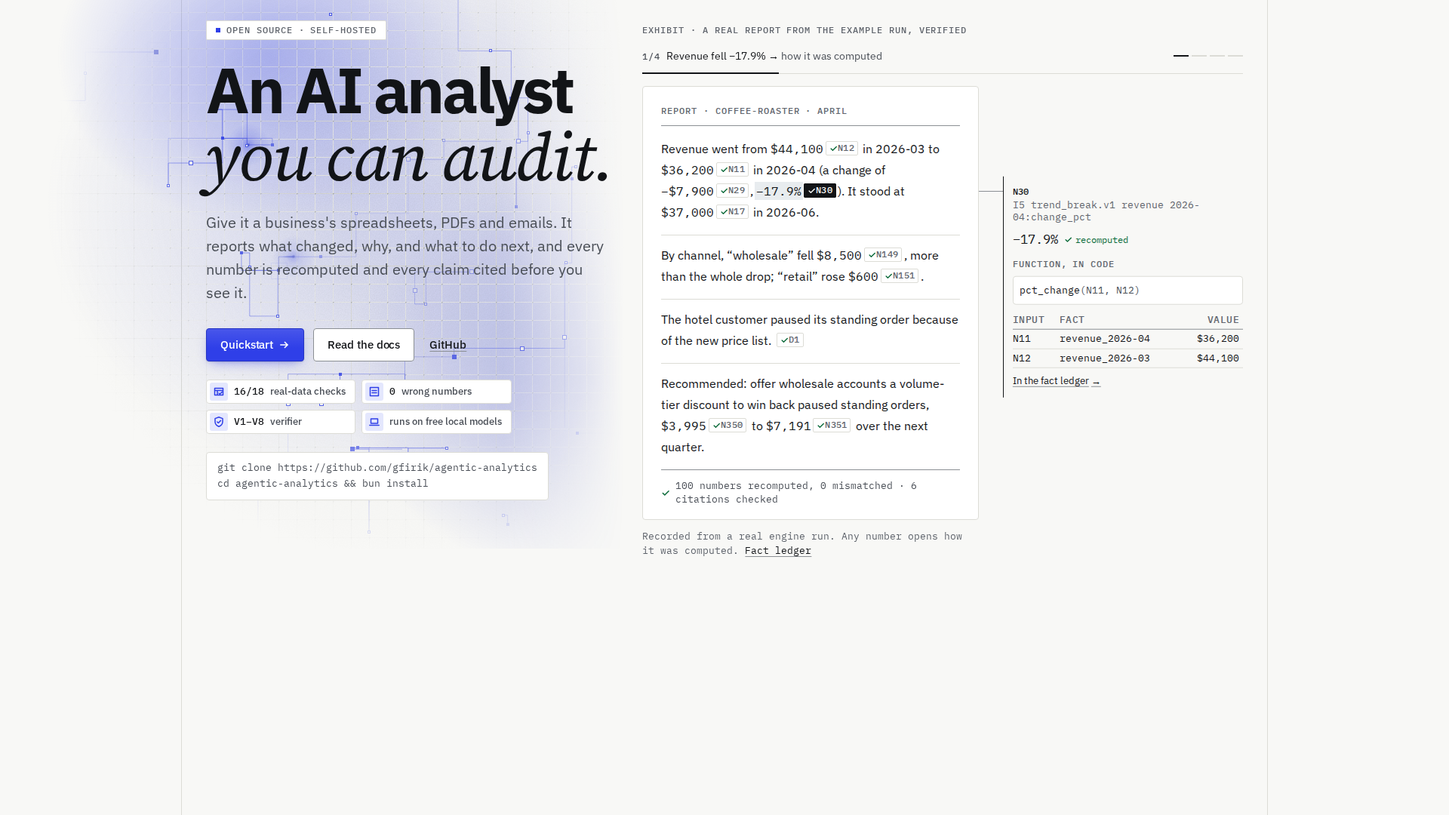
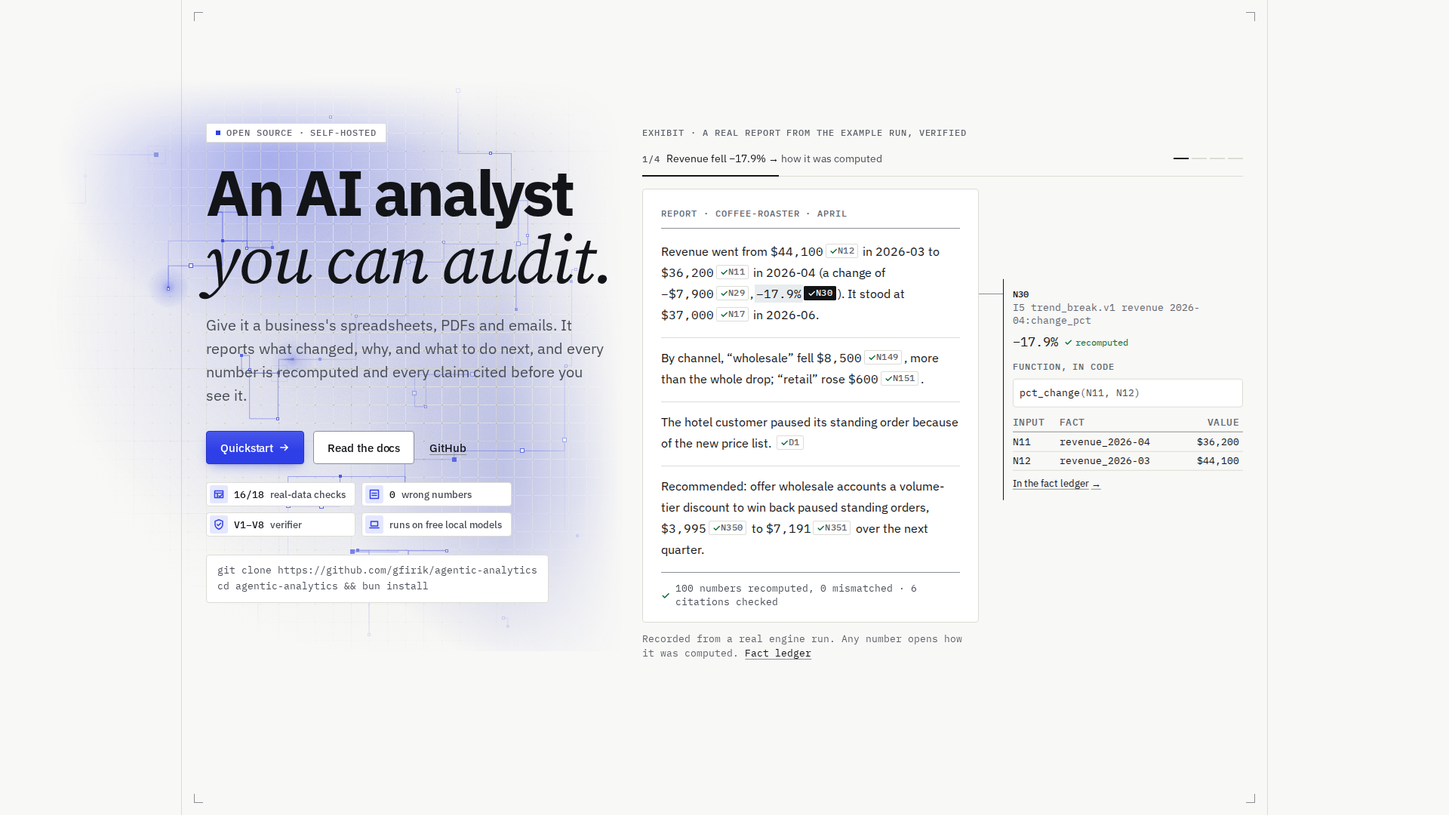
feat(site): pin the whole hero through the walkthrough, then release into the machine
At the maintainer's request the whole hero row (statement with its
field, exhibit and corner marks) is one sticky unit, at least a screen
tall with its content centred, over a scroll track placed after it in
the hero section. It covers the track for the four steps, so no empty
block shows under it, and the engine machine's band starts right at its
bottom edge on release. While pinned the statement's field fades in at
its top. The stacked hero (900-1100px) is taller than a screen, so the
pin starts at 1100px; below that the steps are the tap list.

diff --git a/scripts/site/browser/site.spec.ts b/scripts/site/browser/site.spec.ts
@@ -225,16 +225,25 @@ test("hero: at 1440 the exhibit pins and each scroll step opens the next figure'
   // The margin is never empty: step 1's note is open before the first step.
   await expect(open).toHaveCount(1);
   await expect(open).toHaveAttribute("id", `aa-note-${steps[0]}`);
-  // The exhibit and the statement are sticky; one sentinel per step in the track.
+  // The whole hero row (statement and exhibit) is one sticky unit, a screen tall; one sentinel per step in the track.
+  const row = page.locator(".aa-hero-row");
   const stage = page.locator(".aa-hero-exhibit");
-  expect(await stage.evaluate((el) => getComputedStyle(el).position)).toBe("sticky");
-  expect(await page.locator(".aa-statement").evaluate((el) => getComputedStyle(el).position)).toBe("sticky");
+  const statement = page.locator(".aa-statement");
+  expect(await row.evaluate((el) => getComputedStyle(el).position)).toBe("sticky");
+  expect(await row.evaluate((el) => Math.round(el.getBoundingClientRect().height))).toBeGreaterThanOrEqual(900);
   await expect(page.locator("[data-walk-sentinel]")).toHaveCount(steps.length);
-  const pinTop = await stage.evaluate((el) => Number.parseFloat(getComputedStyle(el).top));
-  // The pinned exhibit fits the screen.
-  expect(await stage.evaluate((el) => el.getBoundingClientRect().height + Number.parseFloat(getComputedStyle(el).top))).toBeLessThanOrEqual(
-    900,
+  // Pinned: the row's top at the screen's top; the exhibit and the statement where they were at step 1.
+  await jumpTo(
+    page,
+    (await page.locator('[data-walk-sentinel="1"]').evaluate((el) => el.getBoundingClientRect().top + window.scrollY)) - 900 * 0.65 + 40,
   );
+  await expect.poll(() => shownStep(page), { timeout: 3_000 }).toBe(1);
+  expect(Math.round(await row.evaluate((el) => el.getBoundingClientRect().top))).toBe(0);
+  const pinTop = Math.round(await stage.evaluate((el) => el.getBoundingClientRect().top));
+  const statementTop = Math.round(await statement.evaluate((el) => el.getBoundingClientRect().top));
+  // Everything in the hero is on screen while pinned: the install line and the exhibit's caption.
+  for (const sel of [".aa-hero-cmd-frame", ".aa-exhibit-caption", ".aa-hero-title"])
+    expect(await page.locator(sel).evaluate((el) => el.getBoundingClientRect().bottom), sel).toBeLessThanOrEqual(900);
   // Each step: scroll until the step's sentinel crosses the line 65% down the screen; the exhibit stays put.
   const sentinelY = (k: number) =>
     page.locator(`[data-walk-sentinel="${k}"]`).evaluate((el) => el.getBoundingClientRect().top + window.scrollY);
@@ -243,7 +252,8 @@ test("hero: at 1440 the exhibit pins and each scroll step opens the next figure'
   for (let k = 1; k <= steps.length; k++) {
     await jumpTo(page, (await sentinelY(k)) - 900 * 0.65 + 40);
     await expect.poll(() => shownStep(page), { timeout: 3_000 }).toBe(k);
-    expect(Math.round(await stage.evaluate((el) => el.getBoundingClientRect().top)), `step ${k} pinned`).toBe(pinTop);
+    expect(Math.round(await stage.evaluate((el) => el.getBoundingClientRect().top)), `step ${k} exhibit pinned`).toBe(pinTop);
+    expect(Math.round(await statement.evaluate((el) => el.getBoundingClientRect().top)), `step ${k} statement pinned`).toBe(statementTop);
     await expect(page.locator(`.aa-walk-cap[data-step="${k}"]`)).toContainText(`${k}/${steps.length}`);
     await expect(open).toHaveCount(1);
     await expect(open).toHaveAttribute("id", `aa-note-${steps[k - 1]}`);
@@ -256,7 +266,9 @@ test("hero: at 1440 the exhibit pins and each scroll step opens the next figure'
     const b = await open.boundingBox();
     expect((b?.y ?? 0) + (b?.height ?? 0), `step ${k} note on screen`).toBeLessThanOrEqual(900);
     const p = await progress();
-    expect(p, `step ${k} progress grows`).toBeGreaterThan(lastProgress);
+    // (Step 1 is where the pin check above already left the page.)
+    if (k > 1) expect(p, `step ${k} progress grows`).toBeGreaterThan(lastProgress);
+    else expect(p, "step 1 progress has started").toBeGreaterThan(0);
     lastProgress = p;
     if (k === 2) {
       // The change's SQL input: its SQL (open beside the exhibit) and the sheet rows it read.
@@ -276,18 +288,21 @@ test("hero: at 1440 the exhibit pins and each scroll step opens the next figure'
   await expect(page.locator("#aa-note-N12")).toHaveClass(/is-open/);
   await page.mouse.move(5, 5);
   await expect(open).toHaveAttribute("id", `aa-note-${steps[1]}`);
-  // Past the track the pin releases straight into the engine machine's band: the exhibit scrolls away and the band's
-  // top follows right behind it.
+  // Past the track the whole hero releases straight into the engine machine's band: the row scrolls away together and
+  // the band's top follows its bottom edge directly, with no empty block between them.
   const engine = page.locator("#engine");
   await jumpTo(page, (await sentinelY(steps.length)) + 900);
   expect(await stage.evaluate((el) => el.getBoundingClientRect().top)).toBeLessThan(pinTop);
+  expect(await statement.evaluate((el) => el.getBoundingClientRect().top)).toBeLessThan(statementTop);
   await expect.poll(() => shownStep(page), { timeout: 3_000 }).toBe(steps.length);
-  const [stageBottom, engineTop] = await Promise.all([
-    stage.evaluate((el) => el.getBoundingClientRect().bottom),
+  const [rowBottom, engineTop, captionBottom] = await Promise.all([
+    row.evaluate((el) => el.getBoundingClientRect().bottom),
     engine.evaluate((el) => el.getBoundingClientRect().top),
+    page.locator(".aa-exhibit-caption").evaluate((el) => el.getBoundingClientRect().bottom),
   ]);
   expect(engineTop).toBeLessThan(900);
-  expect(engineTop - stageBottom, "the band follows the released exhibit").toBeLessThan(200);
+  expect(Math.abs(engineTop - rowBottom), "the band starts where the hero ends").toBeLessThanOrEqual(2);
+  expect(engineTop - captionBottom, "no large empty block under the hero").toBeLessThan(160);
 });
 
 test("hero: keyboard scrolling (Page Down, Space) steps the pinned walkthrough, announced; no step control exists", async ({ page }) => {
@@ -410,7 +425,7 @@ test("hero: under 900 px nothing is pinned; the steps stack as a list and each o
   await expect(wrap).toHaveAttribute("data-walk", "tap");
   const steps = JSON.parse((await wrap.getAttribute("data-steps")) ?? "[]") as string[];
   // No pin, no track, no step bar.
-  expect(await page.locator(".aa-hero-exhibit").evaluate((el) => getComputedStyle(el).position)).not.toBe("sticky");
+  expect(await page.locator(".aa-hero-row").evaluate((el) => getComputedStyle(el).position)).not.toBe("sticky");
   await expect(page.locator(".aa-hero-track")).toBeHidden();
   await expect(page.locator(".aa-walk-bar")).toBeHidden();
   // The figures still verify as the exhibit comes into view.
@@ -486,8 +501,7 @@ test("hero: with reduced motion the walkthrough is a static ruled list, every st
   await expect(page.locator("[data-exhibit]")).not.toHaveAttribute("data-walk", /.*/);
   await expect(page.locator(".aa-walk-bar")).toBeHidden();
   await expect(page.locator(".aa-hero-track")).toBeHidden();
-  expect(await page.locator(".aa-hero-exhibit").evaluate((el) => getComputedStyle(el).position)).not.toBe("sticky");
-  expect(await page.locator(".aa-statement").evaluate((el) => getComputedStyle(el).position)).not.toBe("sticky");
+  expect(await page.locator(".aa-hero-row").evaluate((el) => getComputedStyle(el).position)).not.toBe("sticky");
   for (const d of await page.locator(".aa-walk-list details").all()) await expect(d).toHaveAttribute("open", "");
   const items = page.locator(".aa-walk-list > li");
   await expect(items).toHaveCount(steps.length);
@@ -558,7 +572,7 @@ test("without JS the landing page is complete and chips link into the fact ledge
   for (const d of await items.all()) await expect(d).toHaveAttribute("open", "");
   await expect(items.last().locator(".aa-walk-item-note")).toBeVisible();
   await expect(page.locator(".aa-hero-track")).toBeHidden();
-  expect(await page.locator(".aa-hero-exhibit").evaluate((el) => getComputedStyle(el).position)).not.toBe("sticky");
+  expect(await page.locator(".aa-hero-row").evaluate((el) => getComputedStyle(el).position)).not.toBe("sticky");
   await expect(page.locator(".aa-walk-bar")).toBeHidden();
   await expect(page.locator(".aa-notes")).toBeHidden();
   await expect(page.locator("#ledger")).toBeHidden();
@@ -2015,12 +2029,12 @@ test.describe("motion", () => {
               value: e.value,
               time: e.startTime,
               mine: els.some((el) => Boolean(el?.closest("[data-reveal], .aa-stages, .aa-exhibit"))),
-              // The pinned hero (site v5 PR 2): the exhibit and the statement are sticky over the hero's scroll track
+              // The pinned hero (site v5 PR 2): the whole hero row is sticky over the hero's scroll track
               // and move with the scroll by design as the pin releases; position, not animation, told apart the same way.
               pinned:
                 els.length > 0 &&
                 els.every((el) => {
-                  const host = el?.closest(".aa-hero-exhibit, .aa-statement");
+                  const host = el?.closest(".aa-hero-row");
                   return Boolean(host) && getComputedStyle(host as Element).position === "sticky";
                 }),
               // A sticky row head (§1, §2 from 1100px) moves with the scroll by design once it reaches the end of

diff --git a/apps/docs/DESIGN.md b/apps/docs/DESIGN.md
@@ -158,7 +158,7 @@ The scale (rem, root 16px; mobile values apply under 640px):
      - **left, the statement:** a mono eyebrow label, the serif headline, one or two lines on what it is and what it solves, the actions, and the install line (the clone and then `cd … && bun install`; site v5 PR 2: where the clone URL is wider than the box, on phones, it wraps only after `github.com/` and its second line starts under its first, like Quickstart's; it never scrolls or clips);
      - **right, the exhibit** (§6): its label and the report page with its walkthrough, so the verification replay plays on the first screen (the report page's top at about 260px at 1440×900). At 1440 the right column is about 795px, wide enough for the notes to sit beside the report page; between 1100 and about 1410px they sit below it;
      - **below 1100px** the statement is centred and the exhibit follows it.
-     - **The scroll track (site v5 PR 2).** While the walkthrough is pinned (§6) the hero row holds a track under its content, one sentinel per step (`--aa-walk-step`, 45vh each) and a 20vh tail; the exhibit is sticky (`--aa-pin-top`, `--aa-space-6`), and from 1100px the statement is too, so the whole hero holds still while the track passes and both release together, straight into the engine machine's band. Each is alone in its grid column, so neither slides over a neighbour.
+     - **The whole hero pins (site v5 PR 2).** While the walkthrough is pinned (§6) the hero section holds a scroll track below its row, one sentinel per step (`--aa-walk-step`, 45vh each) and a 20vh tail. The row itself (the statement with its field, the exhibit, and the frame's corner marks) is one sticky unit at the screen's top, at least a screen tall with its content centred, so the whole hero holds still for the four steps and covers the empty track the whole time. As the track ends, the whole hero releases together, and the engine machine's band starts right at its bottom edge, with no empty block between them. While pinned, the statement's field fades in over its first 6rem (its top no longer meets the header's hairline). The hero's colours are unchanged.
   2. **The engine machine** (§6, `EngineMachine.astro`), a full-width band directly under the hero: its head (an unnumbered bracketed label, `THE ENGINE, OPENED UP`, the `h2` and a lead with the run's station count), then the live machine on a stage at least 600px tall on desktop (37.5–45rem), with the station list under it.
   3. `§1 HOW IT WORKS`: a wide row, the head on the left and the pipeline stages (§6) on the right. Site v5 PR 2 trimmed its head, which repeated the machine's "files in, a checked report out": the machine above says what each station does; §1 shows what this run's stages produced (the files read, the SQL run, the figures and the checks).
   4. `§2 WHY IT'S DIFFERENT`: a wide row, the head on the left and exactly three proofs on the right: "The model never does arithmetic", "Definitions you confirm", "Every claim is cited". Each has a mono label, a title, one sentence and one real example in a framed box: the report's first sentence as the model wrote it (`{{N…}}` placeholders) and as the reader sees it (figures and chips); the metric's definition with the 2-line SQL it compiles to; a quoted citation.
@@ -219,12 +219,12 @@ The scale (rem, root 16px; mobile values apply under 640px):
     An inline script holds the figures unverified (and unseen, in their place) before first paint. With reduced motion or no JS, the server-rendered verified state is all there is.
   - **The guided walkthrough (scroll-driven, site v5 PR 2).** The exhibit demonstrates itself as the reader scrolls. After the verification it steps through the story's key figures, opening each one's margin note under a step indicator (`1/4 Revenue fell −17.9% → how it was computed`), with step marks and a progress rule, and no buttons.
     - The steps are chosen from the run's data by role (`walkthrough()` in `scripts/landing-data.ts`), never by typed id: the headline change and how it was computed; its current-period SQL input with the SQL and the sheet rows it read; the driver's share of the change; the quoted document.
-    - **Pinned to the scroll from 900px (site v5 PR 2; this overrides the maintainer's D2 of site v3, "no scroll-pinning at any size", at the maintainer's request).** The exhibit sticks (the hero's scroll track, §5) and each scroll step activates the next figure and opens its note, 1/4 to 4/4; after step 4 the pin releases straight into the engine machine's band and its own scroll-linked tour. There is no timer, and so no Pause or Replay.
+    - **Pinned to the scroll from 1100px (site v5 PR 2; this overrides the maintainer's D2 of site v3, "no scroll-pinning at any size", at the maintainer's request).** The whole hero sticks (§5) and each scroll step activates the next figure and opens its note, 1/4 to 4/4; after step 4 the hero releases straight into the engine machine's band. There is no timer.
     - **How the scroll picks the step:** an IntersectionObserver on the track's sentinels, its root a 1%-tall line 65% down the screen; the step is the last sentinel to cross it (the entry's own box says which way). No scroll listener and no layout read per frame.
     - **The progress rule:** 2px of ink over the step bar's hairline, a scroll-driven animation (`animation-timeline` on the track's view timeline, `--aa-walk-track`, scoped on the hero row; transform only) from the pin's start to step 4. Where scroll-driven animations aren't supported it steps with the walkthrough instead (a custom property the script sets). Four step marks fill as the steps pass.
     - **No step controls (the maintainer's call, site v5 PR 2).** No previous, next, Pause or Replay: the active step changes only with the scroll, softly (the caption, the note and the figure's wash cross-fade over 200ms; opacity and colour only). It stays accessible without buttons: the page's own keyboard scrolling (Page Down, Space, the arrow keys) drives the steps; every figure stays a link in the tab order and opens its note on focus; the step caption is announced (`aria-live="polite"`) on every step, and the step's chip carries `aria-current="step"`.
-    - **Only when it fits.** The pinned exhibit (its label, step bar, report page and notes) must fit the screen under its sticky top; the inline script measures it once before first paint (and again when the window changes), and otherwise the walkthrough is the tap list below. At 1440×900 and 1920×1080 it pins; at about 1280×800, where the notes sit below the report page, it doesn't fit and is the tap list.
-    - **Under 900px (and where it doesn't fit) nothing is pinned:** the steps stack as a ruled list under the exhibit, each a disclosure that opens on tap (step 1 open); the step bar isn't shown. Tapping a figure still opens its margin note below the report page.
+    - **Only when it fits.** The hero row's content (the statement beside the exhibit with its step bar, report page and notes) must fit the screen; the inline script measures it once before first paint (and again when the window changes), and otherwise the walkthrough is the tap list below. Pinned, every note shares one grid cell as tall as the tallest, and beside the report page a note is raised just enough to end inside that cell (the leader still meets it). At 1440×900 and 1920×1080 it pins; at about 1280×800 and 1366×768 (the notes below the report page) it doesn't fit and is the tap list. Between 900 and 1100px the hero is stacked, taller than a screen, so it never pins.
+    - **Under 1100px (and where it doesn't fit) nothing is pinned:** the steps stack as a ruled list under the exhibit, each a disclosure that opens on tap (step 1 open); the step bar isn't shown. Tapping a figure still opens its margin note below the report page.
     - **Beside or below is a container query (site v4)** on the exhibit's own width (`.aa-walk`), not the screen's, because the exhibit sits in the hero's right column from 1100px: beside at 1440 and wider, below between 1100 and about 1410px, beside again from about 840px to 1100px where the hero stacks, and below on phones. The script reads the same width.
     - **Step 1's note is open from the start**, so the margin is never an empty box; its figure isn't marked until step 1.
     - **Notes size to their own content.** Pinned, every note shares one grid cell as tall as the tallest, so the pinned exhibit's height is known before first paint; beside the report page a note sits level with its figure, raised only as far as it must be to end inside that cell (the leader still meets it). Unpinned beside the exhibit, the notes column keeps the room of its tallest note (measured in the browser, again when the fonts arrive or the window changes; it only grows). Each note sits at the top of its room, never stretched, and the step captions share one grid cell too. So stepping never moves the page.
@@ -317,7 +317,7 @@ Site v4 PR 3 brought tasteful motion to the whole landing page under the rules o
   - A part the reader scrolls past without stopping (the End key, a fling) is shown at once, as is one that takes keyboard focus; an in-page link, a hash change or printing shows every held part at once, so a jump never lands on a fade.
   - The server renders every part final: without JS, without IntersectionObserver and under reduced motion nothing is held.
 - **The pipeline's connector** (§6) draws in, stop by stop, the first time its rail scrolls into view on the landing page. Play still steps through the stops once while on screen and stops at Report; each step moves the connector by one segment (180ms) and crossfades the panel content (150ms), with no moving parts. The stages never play by themselves. Without JS every panel is in the HTML as a stacked list.
-- **The exhibit:** its replay (§6), where the figures count up to their recorded values and then verify, the one motion on the first screen; then its walkthrough, pinned and stepped by the reader's own scroll from 900px (site v5 PR 2), with a scroll-driven progress rule. Nothing in it moves by itself.
+- **The exhibit:** its replay (§6), where the figures count up to their recorded values and then verify, the one motion on the first screen; then its walkthrough, the whole hero pinned and stepped by the reader's own scroll from 1100px (site v5 PR 2), with a scroll-driven progress rule. Nothing in it moves by itself.
 - **Hover and focus:** 150ms (`--aa-fast`) on links (underline and colour), chips, buttons, the rail's stops, and rows (§3's metric rows and §4's doors take the `mark` wash; a "more" link's arrow steps 3px forward). The margin note slides in over 150ms.
 - **Docs:** none beyond hover and focus, the TOC stepping aside, and the user-triggered StageFlow and pipeline stepping (the connector is drawn from the start there).
 - **The engine machine** (§6): a slow camera drift (±3.4° about the vertical over 26 seconds, desktop only) while its band is on screen, and the camera moving from station to station as the reader scrolls through the band (eased, never ahead of the scroll). Nothing in it blocks the page's own scrolling, and nothing moves text the reader is on. Under reduced motion it is the still frame with the station list: no drift, no scroll-linked camera and no canvas.
@@ -387,7 +387,7 @@ The scroll-pinned story is PR 2.
 
 The maintainer: the hero exhibit should tell its story as the reader scrolls, not on a timer. This overrides site v3's D2 ("no scroll-pinning at any size; the walkthrough is timed everywhere"):
 
-- **the exhibit pins** from 900px while a scroll track in the hero row passes, each step activated by the scroll and shown by a scroll-driven progress rule; after step 4 it releases straight into the engine machine's band (§5, §6). The timer and every step control (previous, next, Pause, Replay) are gone: only the scroll moves it, keyboard scrolling included, with soft cross-fades and a polite live region;
+- **the whole hero pins** (the statement and the exhibit together) from 1100px while a scroll track below it passes, each step activated by the scroll and shown by a scroll-driven progress rule; after step 4 it releases straight into the engine machine's band (§5, §6). The timer and every step control (previous, next, Pause, Replay) are gone: only the scroll moves it, keyboard scrolling included, with soft cross-fades and a polite live region;
 - **phones** get the steps as a list that opens on tap; **reduced motion and no JS** the static list, every note open;
 - **§1's head** is trimmed so it no longer repeats the machine (§5);
 - **the install line** wraps after `github.com/` on phones instead of scrolling (§5).

diff --git a/docs/progress/STATE.md b/docs/progress/STATE.md
@@ -58,7 +58,7 @@ Since 2026-10-21 (maintainer's standing instruction): work through the whole pla
 | Site v4 PR 3: motion across the landing page | AWAITING_REVIEW (draft PR) | notify | [#72](https://github.com/gfirik/agentic-analytics/pull/72) (draft) | `bun run --filter @agentic-analytics/docs build && PW_CHANNEL=chrome bun run site:check:browser` (the "motion" tests); screenshots in `docs/plans/site-v4/pr3-*.png` | The plan `docs/plans/site-v4.md` §PR 3: §1–§4's head and visual fade and rise into place once as they first scroll in (240ms, opacity and transform only; only what is below the screen at load; never the hero or the engine band); the pipeline rail is a connector (2px segment + node per stop) that draws in stop by stop the first time it scrolls into view on the landing page, and Play/stops still step it; the exhibit's figures count up to their recorded values (CSS overlay over the unchanged real text) and then verify, ≤ 2.5s; 150ms hovers on links, chips, buttons, §3 rows, §4 doors, "more" arrows; wide-row heads sticky from 1100px. All off under reduced motion; final state without JS. Fixed on the way: the engine card's text shifting at its scroll stops on phones (CLS through the page at 390: 0.047 → 0.006), and a pinned note lost to hover during its own scroll-into-view. DESIGN.md §2.5, §5, §6, §7, §10 rewritten. Lighthouse `/`: mobile 96/100/100/100 CLS 0, desktop 100/100/100/100 CLS 0.00003, same-origin only; browser suite 60/60; gate PASS |
 | Site v5 PR 1: hero backgrounds and type polish | DONE (merged 2026-10-22, 3a97d72) | notify | [#85](https://github.com/gfirik/agentic-analytics/pull/85) | `bun run --filter @agentic-analytics/docs build && bash scripts/heavy.sh bun run site:check:browser` (the "hero field" tests); `tsx apps/docs/scripts/site-screenshots.ts --hero --out <dir>`; screenshots in `docs/plans/site-v5/pr1-*.png` | The plan `docs/plans/site-v5.md` §PR 1: the hero statement stands on its own field (`HeroField.astro`): a white core inside a faint cool haze (`--aa-glow`), graph paper (24px minor, 96px major, a dot on every crossing) fading radially from the statement, inline SVG grain, and a canvas net of drifting square nodes with elbowed hairline connectors (idle start, IntersectionObserver + visibility pause, ≤ 30 fps, DPR ≤ 2 and ≤ 1.6 Mpx, a Pause control; none under reduced motion, Save-Data or without JS). Framed corner marks on the hero frame. Display 40–68px fluid, set closer; larger hero lead; eyebrow as a tag; buttons reworked (raised secondary, arrow on the primary). The exhibit is unchanged. Lighthouse `/` (2 mobile runs, 1 desktop): mobile 96/100/100/100 CLS 0, desktop 100/100/100/100 CLS 0; browser suite 64/64 (CLS through the page 0.0046 at 1440, 0.0059 at 390); same-origin only |
 | Site v5 PR 1b: a bolder hero | DONE (merged 2026-10-22, 09636ae) | notify | [#86](https://github.com/gfirik/agentic-analytics/pull/86) | `bun run --filter @agentic-analytics/docs build && bash scripts/heavy.sh bun run site:check:browser` (the "hero" tests); `tsx apps/docs/scripts/site-screenshots.ts --hero --out <dir>`; before/after in `docs/plans/site-v5/pr1b-{before,after}-hero-{1920,1440,390}.png` | The maintainer: "still too flat and restrained, be bold". The hero only: one brand accent, cobalt (`--aa-accent` #2f3fe8, `-deep`, `-wash`; replaces `--aa-glow`), as a visible glow (≤ 22% of the accent behind text: lead ≥ 5.1:1, headline ≥ 9:1, measured), the net's nodes and connectors, the proof chips' icons and the primary button (a soft gradient of the accent). Two-voice headline, `--aa-text-hero` (81px at 1440, 84px wider, 44px on phones, capped at 16cqi so each voice stays one line): Plex Sans 700 (new latin file, 23 KB) and the serif italic, both preloaded on `/` with metric-matched fallback faces. Proof chips under the actions, generated by `proofChips()` (16/18 real-data checks, 0 wrong numbers, V1–V8 verifier, runs on free local models), each linked with its source file. The net: 16–64 nodes, connectors that draw in, accent pulses that run toward the exhibit and hop node to node; still ≤ 30 fps and paused off-screen, hidden tab, Pause; absent under reduced motion/no JS. The eyebrow is one line at 390/360; Pause has its own slot (≥ 32px above the exhibit's label). Lighthouse `/`: mobile 95/100/100/100 CLS 0 (LCP 2.6s, TBT 20ms), desktop 100/100/100/100 CLS 0; same-origin only |
-| Site v5 PR 2: scroll-driven story into the 3D machine | IN_REVIEW (PR open) | notify | [#87](https://github.com/gfirik/agentic-analytics/pull/87) | `bun run --filter @agentic-analytics/docs build && bash scripts/heavy.sh bun run site:check:browser` (the "hero" tests); `tsx apps/docs/scripts/site-screenshots.ts --story --out <dir>`; screenshots in `docs/plans/site-v5/pr2-*.png` | The exhibit pins from 900px (when it fits the screen) while a scroll track in the hero row passes; each scroll step activates the next figure and opens its note (1/4 → 4/4), with step marks and a scroll-driven progress rule; after step 4 the pin releases straight into the engine machine. No step controls at all (no timer, Pause, Replay, prev or next): only the scroll moves it, keyboard scrolling included, with soft cross-fades. The hero field's Pause control is removed (WCAG 2.2.2 trade-off accepted by the maintainer). Under 900px the steps are a list that opens on tap; reduced motion and no JS, the static list with every note open. §1's head trimmed (no longer repeats the machine). The install line wraps after `github.com/` at 390 instead of clipping. Lighthouse `/` (2 runs each): mobile 95 and 97/100/100/100 CLS 0, desktop 100/100/100/100 CLS 0; CLS through the page with CI-like fonts 0.0046 at 1440, 0.0072 at 390; axe clean (reduced motion, and live: pinned at 1440, tap list at 390); same-origin only |
+| Site v5 PR 2: scroll-driven story into the 3D machine | IN_REVIEW (PR open) | notify | [#87](https://github.com/gfirik/agentic-analytics/pull/87) | `bun run --filter @agentic-analytics/docs build && bash scripts/heavy.sh bun run site:check:browser` (the "hero" tests); `tsx apps/docs/scripts/site-screenshots.ts --story --out <dir>`; screenshots in `docs/plans/site-v5/pr2-*.png` | The whole hero (statement and exhibit) pins from 1100px, when it fits the screen, while a scroll track below it passes; each scroll step activates the next figure and opens its note (1/4 → 4/4), with step marks and a scroll-driven progress rule; after step 4 the pin releases straight into the engine machine. No step controls at all (no timer, Pause, Replay, prev or next): only the scroll moves it, keyboard scrolling included, with soft cross-fades. The hero field's Pause control is removed (WCAG 2.2.2 trade-off accepted by the maintainer). Under 1100px the steps are a list that opens on tap; reduced motion and no JS, the static list with every note open. §1's head trimmed (no longer repeats the machine). The install line wraps after `github.com/` at 390 instead of clipping. Lighthouse `/` (2 runs each): mobile 95 and 97/100/100/100 CLS 0, desktop 100/100/100/100 CLS 0; CLS through the page with CI-like fonts 0.0046 at 1440, 0.0072 at 390; axe clean (reduced motion, and live: pinned at 1440, tap list at 390); same-origin only |
 
 Order: M0 → M1 → M2 → M3 → M4 → M5 → M6 → M7 → M8 → M9 → M10 → M11 → M12. In autopilot it runs sequentially. Parallel worktrees are an interactive option only.
 
@@ -428,6 +428,7 @@ These are checks that need something this machine doesn't have yet, such as a re
 - [site v5 PR 2] The maintainer, mid-PR: no controls in the hero's right column (no prev, next, Pause, Replay or timer), so the step changes only with the scroll; the earlier prev/next and arrow-key stepping were removed. It stays accessible without buttons: the page's own keyboard scrolling (Page Down, Space, arrows) drives the steps, every figure stays a link in the tab order and opens its note on focus, the caption is a polite live region and the step's chip carries `aria-current="step"`; step changes cross-fade over 200ms (opacity and colour only) — apps/docs/src/components/site/Exhibit.astro
 - [site v5 PR 2] The maintainer removed the hero field's "Pause background" control (and the statement's reserved slot for it): the net always plays while the hero is on screen, still stops off-screen and in a hidden tab for cost, and is absent under reduced motion, Save-Data and without JS. The maintainer explicitly accepts the WCAG 2.2.2 (Pause, Stop, Hide) trade-off for this decorative motion; DESIGN.md §7 records it — apps/docs/src/components/site/HeroField.astro
 - [site v5 PR 2] The engine machine's tour and explore modes are a separate follow-up PR; this PR only makes the pin release cleanly into its band and doesn't change the machine.
+- [site v5 PR 2] The maintainer, from the live page: the whole hero, not just the exhibit, stays fixed through the four steps. The hero row (the statement with its field, the exhibit and the corner marks) is now one sticky unit, at least a screen tall with its content centred, over a track placed after it in the section; it covers the track the whole time, so no empty block shows under the pinned hero, and the engine machine's band starts right at its bottom edge on release. While pinned, the statement's field fades in over its first 6rem, because centring moves its top edge off the header's hairline. Colours are unchanged. Because the stacked hero (900–1100px) is taller than a screen, the pin now starts at 1100px; below that it is the tap list — apps/docs/src/pages/index.astro, apps/docs/src/components/site/HeroField.astro, Exhibit.astro
 
 ## Known gaps carried forward
 

diff --git a/docs/DOCS-SITE.md b/docs/DOCS-SITE.md
@@ -33,7 +33,7 @@ They share one design system, `apps/docs/DESIGN.md`. Its tokens live in `src/sty
 - **The hero exhibit** (`components/site/Exhibit.astro`, landing page):
   - It shows the first finding of the real coffee-roaster run, each number followed by its fact-ID chip.
   - It replays its verification as it comes into view, unless reduced motion is on.
-  - It walks through its key figures by itself (M13k): the change, its SQL input and sheet rows, the driver, the quoted cause (`walkthrough()` in `scripts/landing-data.ts`, chosen by role from the run's data). From 900 px the exhibit pins and the reader's scroll steps it, with a scroll-driven progress rule, then releases into the engine machine (site v5 PR 2; there is no timer); only the scroll moves it (keyboard scrolling included), with no step controls; step 1's note is open from the start. Under 900 px the steps are a list that opens on tap; reduced motion or no JS shows them as a static ruled list, every note open.
+  - It walks through its key figures by itself (M13k): the change, its SQL input and sheet rows, the driver, the quoted cause (`walkthrough()` in `scripts/landing-data.ts`, chosen by role from the run's data). From 1100 px the whole hero pins and the reader's scroll steps it, with a scroll-driven progress rule, then releases into the engine machine (site v5 PR 2; there is no timer); only the scroll moves it (keyboard scrolling included), with no step controls; step 1's note is open from the start. Under 1100 px the steps are a list that opens on tap; reduced motion or no JS shows them as a static ruled list, every note open.
   - Hovering or focusing a figure opens its margin note: the SQL and parameters (or the function and its inputs), and the cited sheet rows.
   - A chip links to the fact's row in a static fact ledger, so it works without JS.
 - **`<Sidenote>` / `<MarginNote>`** (Learn, MDX): Tufte-style notes in the margin column, tap-to-expand under 1000px.
@@ -106,7 +106,7 @@ The README is the first thing people see on GitHub. It carries five visuals, and
   - no horizontal scroll at 360 px on every page, and at 1024 px on a Learn page (the margin column's narrowest);
   - light only, even under a dark OS with a stored dark theme;
   - the hero replays its verification once within 2.5 s, and not under reduced motion, also on a 667×375 landscape phone;
-  - the walkthrough (site v5 PR 2): at 1440 the exhibit and the statement pin, each scroll step opens the next figure's note (aria-current on its chip) as the progress rule grows, scrolling back steps back, a hover mid-walkthrough returns to the step's note, and past the track the pin releases into the engine machine; keyboard scrolling (Page Down, Space) steps it and there is no step control; stepping never moves the page below it; under 900 px nothing is pinned and the steps are a list that opens on tap; under reduced motion and without JS it is a static list, every note open, nothing sticky; axe on the live modes;
+  - the walkthrough (site v5 PR 2): at 1440 the whole hero row pins, each scroll step opens the next figure's note (aria-current on its chip) as the progress rule grows, scrolling back steps back, a hover mid-walkthrough returns to the step's note, and past the track the pin releases into the engine machine; keyboard scrolling (Page Down, Space) steps it and there is no step control; stepping never moves the page below it; under 1100 px nothing is pinned and the steps are a list that opens on tap; under reduced motion and without JS it is a static list, every note open, nothing sticky; axe on the live modes;
   - the status strip, header and install line keep their height while the web fonts arrive late (390 and 1440 px);
   - a margin note opens on hover and focus, beside its figure, and Escape closes it; under 900 px it opens below the exhibit;
   - without JS the page is complete and chips land on the fact ledger;

diff --git a/apps/docs/README.md b/apps/docs/README.md
@@ -35,7 +35,7 @@ Mermaid diagrams come from the same `docs/assets/diagrams/*.mmd` files the READM
 - `RagStepper`: BM25 → vectors → RRF → rerank → extract.
 - `VerifierDiff`: the draft against the verified report.
 - `Mermaid`: the shared diagrams, in the site's colours and type.
-- `Exhibit.astro` (landing page): the report page, its verification as it comes into view, and its guided walkthrough (M13k): the steps from `walkthrough()` in `scripts/landing-data.ts`, each opening a margin note under a step bar (step marks and a scroll-driven progress rule, no buttons). From 900 px, when it fits the screen, the exhibit pins over a scroll track in the hero row and the reader's scroll steps it, then releases into the engine machine (site v5 PR 2; no timer); step 1's note is open from the start. Under 900 px the steps are a list that opens on tap and the SQL is folded behind "show"; reduced motion or no JS shows them as a static ruled list, every note open. Hover and focus open any figure's note. Without JS the chips link into the static fact ledger.
+- `Exhibit.astro` (landing page): the report page, its verification as it comes into view, and its guided walkthrough (M13k): the steps from `walkthrough()` in `scripts/landing-data.ts`, each opening a margin note under a step bar (step marks and a scroll-driven progress rule, no buttons). From 1100 px, when it fits the screen, the whole hero pins over a scroll track below it and the reader's scroll steps it, then releases into the engine machine (site v5 PR 2; no timer); step 1's note is open from the start. Under 1100 px the steps are a list that opens on tap and the SQL is folded behind "show"; reduced motion or no JS shows them as a static ruled list, every note open. Hover and focus open any figure's note. Without JS the chips link into the static fact ledger.
 - `ExhibitNote.astro`: a margin note's body (the fact's value, its SQL or function, the cited sheet rows, or a document's quote), shared by the margin column and the static list.
 - `Sidenote.astro` / `MarginNote.astro` (Learn): notes in the margin column, inline under 1000px.
 - `learn/StageFlow` (Learn): one stage as in → stage → out with the run's real numbers, stepped through; `learn/Transcript`, `learn/Fact`, `learn/FactLedger`, `learn/Claim` and `learn/LearnMap` are static Astro components.

diff --git a/docs/plans/site-v5.md b/docs/plans/site-v5.md
@@ -60,10 +60,10 @@ The maintainer, after PR 1: "it's still too flat and restrained. Be bold this ti
 
 The maintainer's spec (it overrides site v3's D2, "no scroll-pinning"): the hero exhibit tells its story as the reader scrolls instead of on a timer.
 
-1. Pin: from 900px, when it fits the screen, the exhibit is sticky over a scroll track in the hero row (one sentinel per step); from 1100px the statement sticks beside it. Each step's sentinel crossing a line 65% down the screen activates the next figure and opens its note; after step 4 the pin releases into the engine machine's band.
+1. Pin: from 1100px, when it fits the screen, the whole hero row (statement and exhibit) is one sticky unit, a screen tall, over a scroll track below it in the section (one sentinel per step). Each step's sentinel crossing a line 65% down the screen activates the next figure and opens its note; after step 4 the whole hero releases straight into the engine machine's band with no gap (maintainer's change: the whole hero, not just the exhibit).
 2. Progress: step marks and a 2px rule driven by the track's view timeline (scroll-driven animation), stepped by the script where unsupported.
 3. Controls: none (the maintainer withdrew prev/next): the timer, Pause, Replay, prev and next all go, and only the scroll moves the steps, keyboard scrolling included; soft cross-fades. The hero field's Pause control goes too (WCAG 2.2.2 trade-off accepted by the maintainer). `aria-live` on the caption, `aria-current="step"` on the step's chip.
-4. Phones: no pin; the steps stack as a list, each a disclosure that opens on tap. Reduced motion and no JS: the static list, every note open.
+4. Under 1100px (stacked, taller than a screen) and on phones: no pin; the steps stack as a list, each a disclosure that opens on tap. Reduced motion and no JS: the static list, every note open.
 5. §1 "How it works": trimmed where it repeated the machine (its head); its panels show the run's artifacts, which the machine doesn't.
 6. The install line wraps after `github.com/` at 390 instead of clipping.
 7. Checks: Playwright (pin and step on scroll, release, tap list, reduced motion, keyboard, axe on the live modes), CLS with CI-like fonts, Lighthouse, 360px, screenshots `pr2-*.png`.
